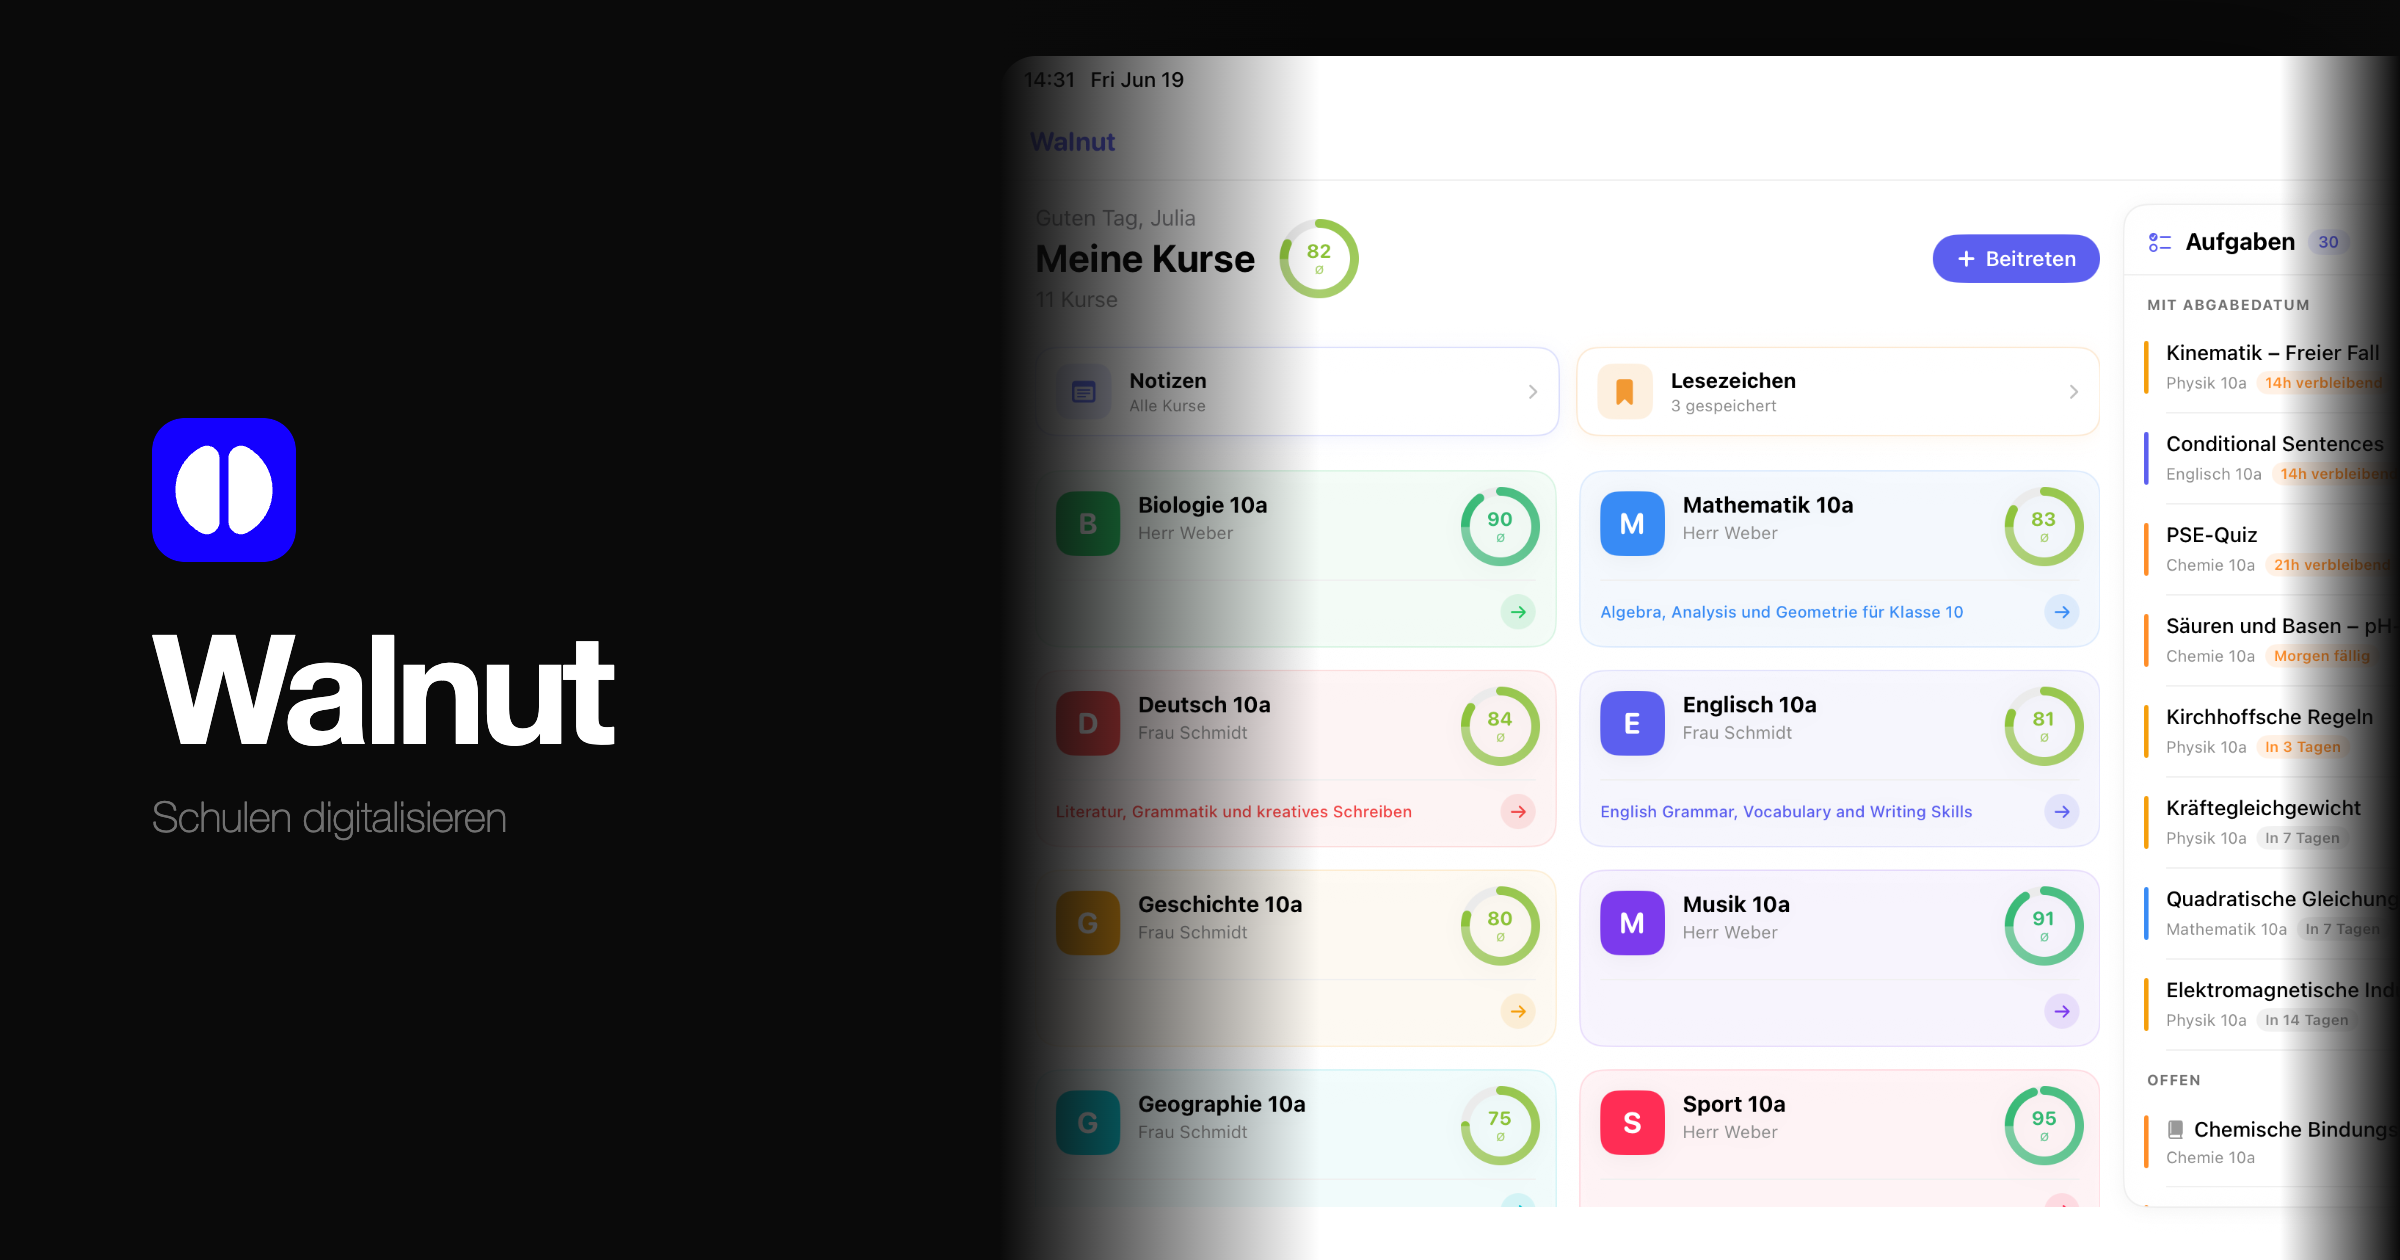
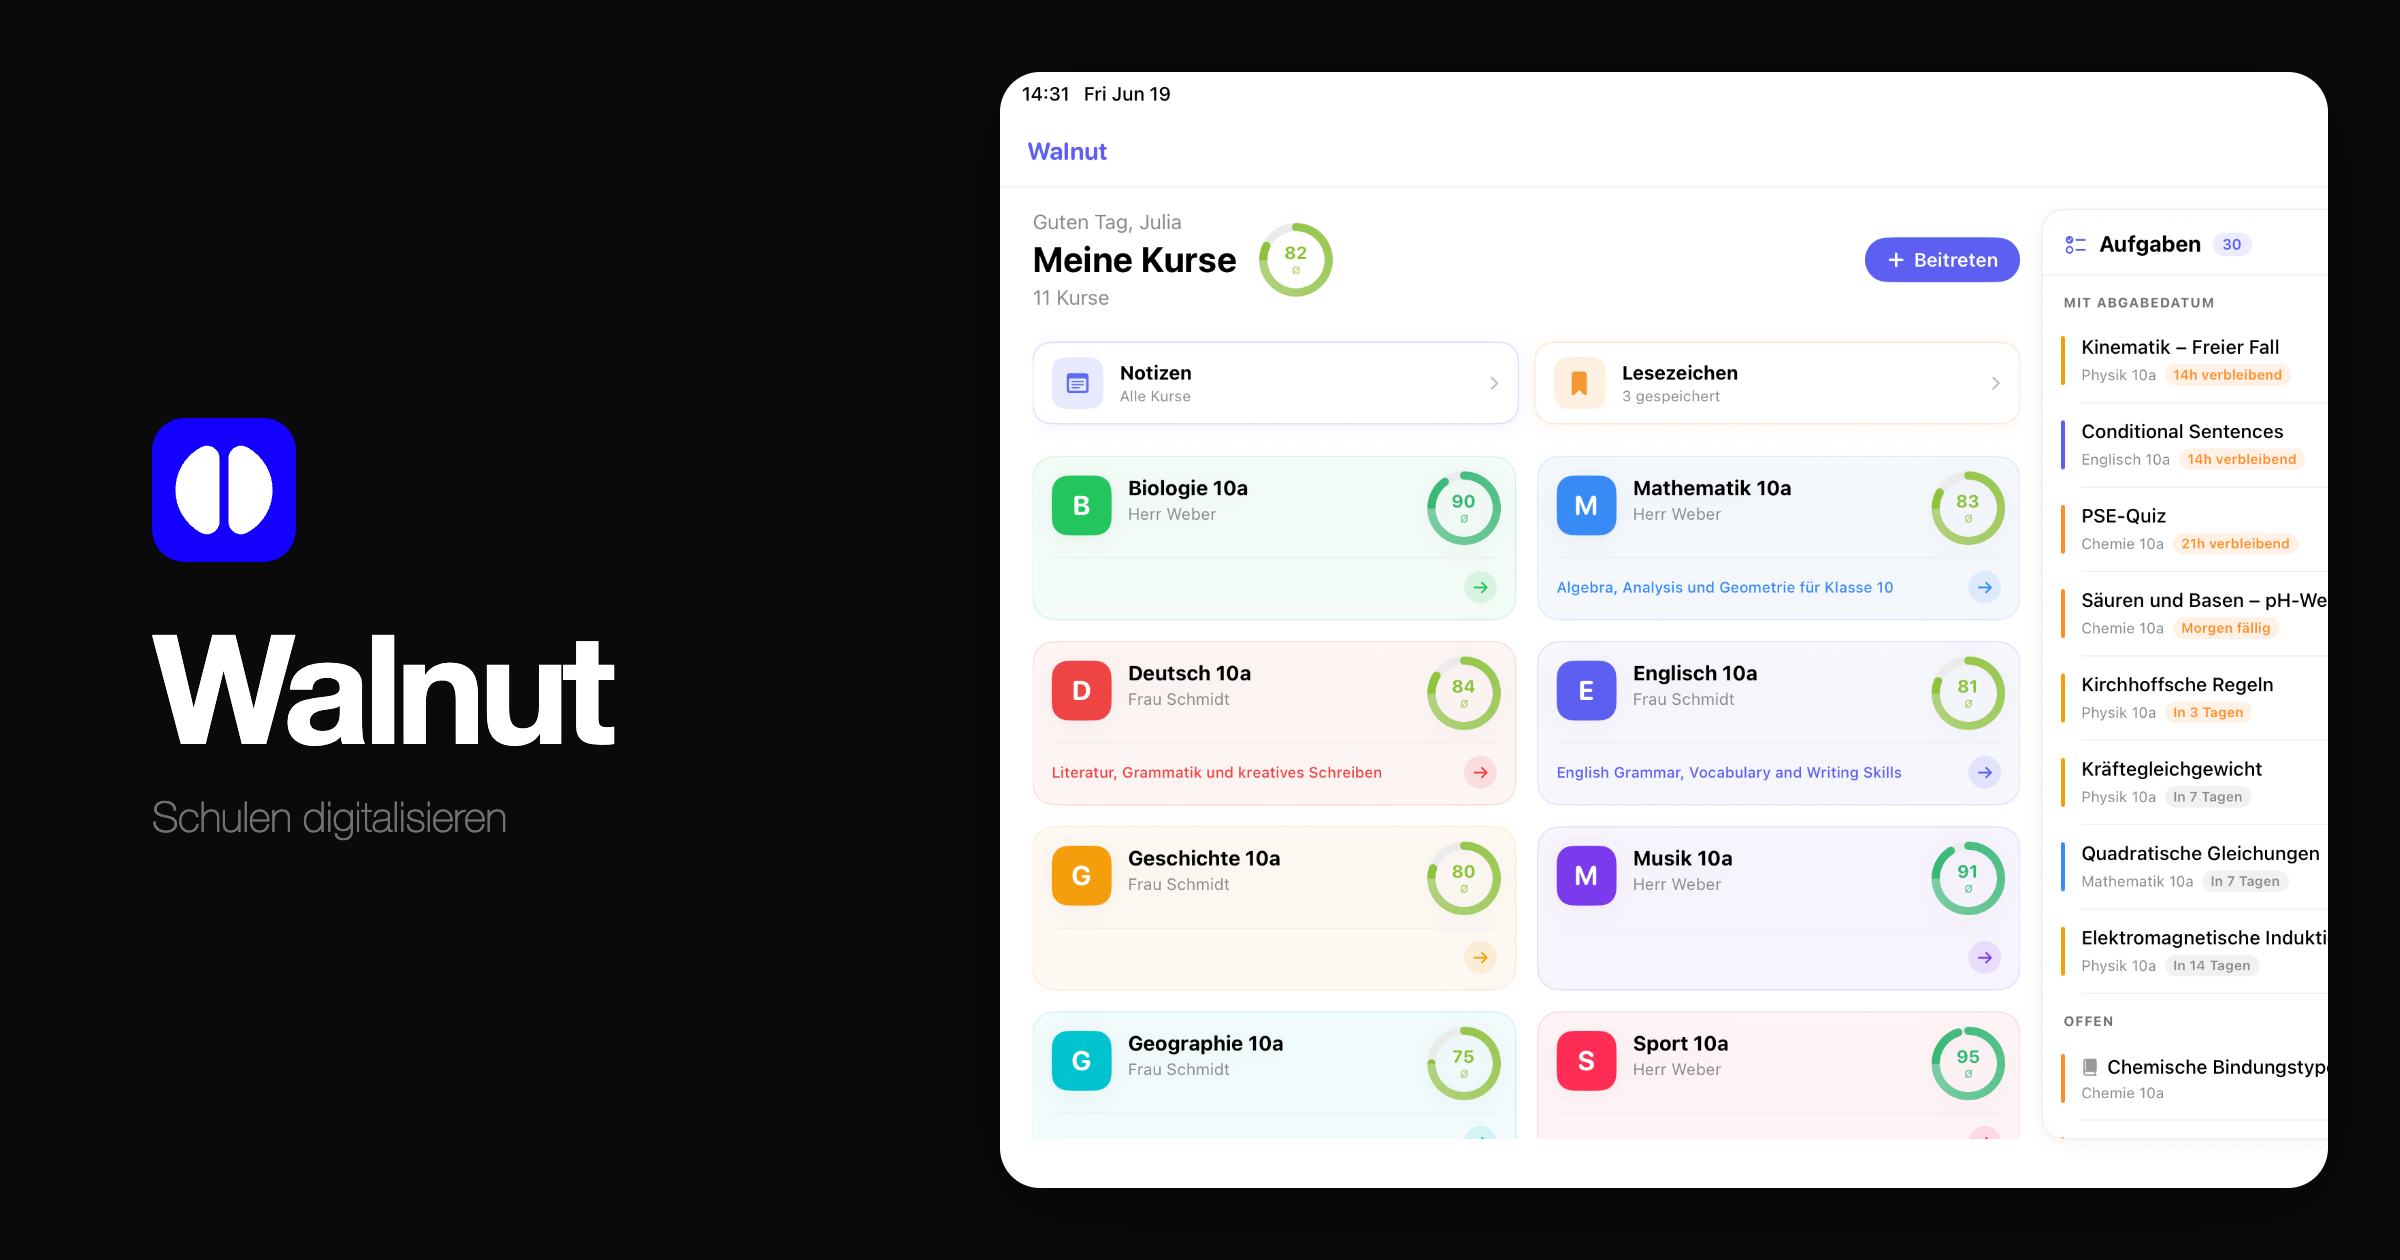
OG image: screenshot with rounded corners, no gradient; shorten meta description

Changed region(s): [[0.4062, 0.031, 1.0, 1.0], [0.625, 0.2786, 0.75, 0.3405]]

diff --git a/og-template.html b/og-template.html
@@ -44,39 +44,19 @@ body {
 
 .right {
   flex: 1;
-  position: relative;
   height: 100%;
-  overflow: hidden;
-}
-
-.right::before {
-  content: '';
-  position: absolute;
-  inset: 0 auto 0 0;
-  width: 160px;
-  background: linear-gradient(to right, #0A0A0A, transparent);
-  z-index: 2;
-}
-
-.right::after {
-  content: '';
-  position: absolute;
-  inset: 0 0 0 auto;
-  width: 60px;
-  background: linear-gradient(to left, #0A0A0A, transparent);
-  z-index: 2;
+  display: flex;
+  align-items: center;
+  padding: 36px 36px 36px 0;
 }
 
 .screenshot {
-  position: absolute;
-  top: 28px;
-  left: 0;
   width: 100%;
-  height: calc(100% - 28px);
+  height: 100%;
   object-fit: cover;
   object-position: top left;
-  border-radius: 18px 0 0 0;
-  box-shadow: -20px 0 80px rgba(0,0,0,0.6);
+  border-radius: 20px;
+  box-shadow: 0 8px 48px rgba(0,0,0,0.5);
 }
 </style>
 </head>

diff --git a/index.html b/index.html
@@ -4,15 +4,15 @@
 <meta charset="UTF-8">
 <meta name="viewport" content="width=device-width, initial-scale=1.0">
 <title>Walnut: Schulen digitalisieren</title>
-<meta name="description" content="Walnut digitalisiert den Unterricht: Aufgaben, Noten, Korrekturen und mehr — für Schüler und Lehrkräfte, alles auf einem Gerät.">
+<meta name="description" content="Walnut digitalisiert den Unterricht: Aufgaben, Noten, Korrekturen und mehr, alles auf einem Gerät.">
 <meta property="og:title" content="Walnut: Schulen digitalisieren">
-<meta property="og:description" content="Walnut digitalisiert den Unterricht: Aufgaben, Noten, Korrekturen und mehr — für Schüler und Lehrkräfte, alles auf einem Gerät.">
+<meta property="og:description" content="Walnut digitalisiert den Unterricht: Aufgaben, Noten, Korrekturen und mehr, alles auf einem Gerät.">
 <meta property="og:url" content="https://walnut.institute">
 <meta property="og:type" content="website">
 <meta property="og:image" content="https://walnut.institute/og-image.png">
 <meta name="twitter:card" content="summary_large_image">
 <meta name="twitter:title" content="Walnut: Schulen digitalisieren">
-<meta name="twitter:description" content="Walnut digitalisiert den Unterricht: Aufgaben, Noten, Korrekturen und mehr — für Schüler und Lehrkräfte, alles auf einem Gerät.">
+<meta name="twitter:description" content="Walnut digitalisiert den Unterricht: Aufgaben, Noten, Korrekturen und mehr, alles auf einem Gerät.">
 <meta name="twitter:image" content="https://walnut.institute/og-image.png">
 <link rel="icon" type="image/svg+xml" href="favicon.svg">
 <link rel="icon" type="image/png" href="favicon.png">